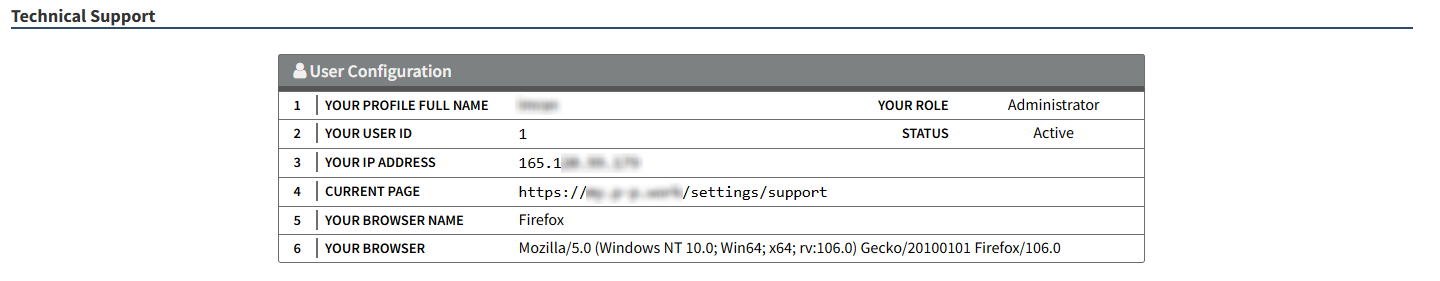
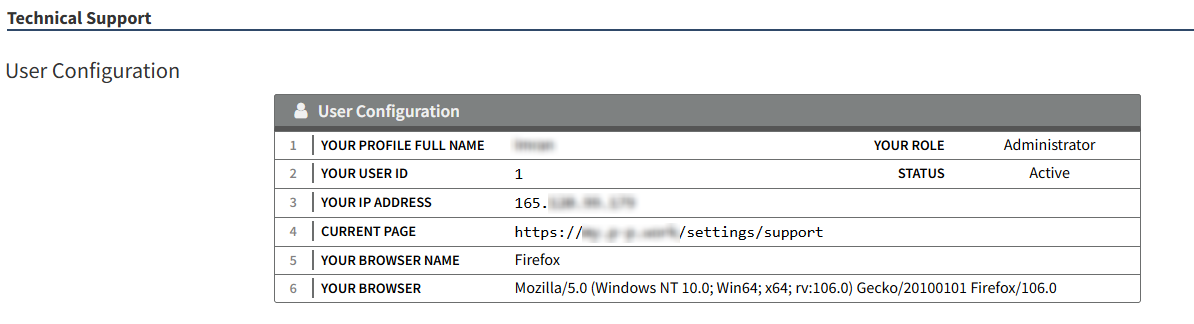
NEW: Add Application Information Section

Changed region(s): [[0.1859, 0.1708, 0.9606, 0.9395], [0.0, 0.0285, 1.0, 0.1139], [0.0, 0.1993, 0.1549, 0.2562]]

diff --git a/Assets/css/kanboard-support.css b/Assets/css/kanboard-support.css
@@ -18,6 +18,7 @@
     --tech-bg-text-color-xwhite: #F0F0F0;
     --tech-bg-grey-border-match: #6C6E6E;
     --tech-bg-grey-border-bottom: #555555;
+    --tech-light-grey: #07060680;
 }
 
 .display-none, .d-none {
@@ -53,6 +54,10 @@
     width: 50px;
 }
 
+i.pp-white {
+    color: var(--pp-white);
+}
+
 table > thead > tr > th, table > tbody > tr > td, table > tbody > tr > th {
     padding: 4px 15px;
 }
@@ -75,7 +80,6 @@ table > thead > tr > th, table > tbody > tr > td, table > tbody > tr > th {
 
 #UserTable > thead > tr > th {
     border: 1px solid var(--tech-bg-grey-border-match);
-    border-bottom: 5px inset var(--tech-bg-grey-border-bottom);
 }
 
 #UserTable > tbody > tr > td {
@@ -92,7 +96,7 @@ table > thead > tr > th, table > tbody > tr > td, table > tbody > tr > th {
     border-bottom: 1px solid var(--tech-bg-grey-border-match);
 }
 
-.cell-title {
+.cell-title, .app-info-title {
     text-transform: uppercase;
     font-size: .9em;
     font-weight: 600;
@@ -144,16 +148,16 @@ table > thead > tr > th, table > tbody > tr > td, table > tbody > tr > th {
     font-weight: 600;
 }
 
-/* TABLE ROW NUMBERS */
-table.support-table {
+/* TABLE ROW NUMBERS - USER TABLE */
+table.support-table.user-table {
     counter-reset: rowNumber;
 }
 
-table.support-table tr > td:first-child {
+table.support-table.user-table tr > td:first-child {
     counter-increment: rowNumber;
 }
 
-table.support-table tr td:first-child::before {
+table.support-table.user-table tr td:first-child::before {
     content: counter(rowNumber);
     min-width: 1em;
     margin-right: 0.5em;
@@ -161,5 +165,27 @@ table.support-table tr td:first-child::before {
     padding-right: 15px;
     padding-top: 1px;
     padding-bottom: 1px;
+    color: var(--tech-light-grey);
 }
 /* END OF TABLE ROW NUMBERS */
+
+.app-info {}
+
+.empty-col {
+    width: 100px;
+}
+
+.app-info ul li {
+    margin: .2em .4em;
+    list-style-type: none;
+    display: inline-block;
+}
+
+.app-info-value {
+    padding: 0 5px;
+}
+
+.border-bottom-thick {
+    border-bottom: 5px inset var(--tech-bg-grey-border-bottom) !important;
+}
+

diff --git a/Template/config/support.php b/Template/config/support.php
@@ -8,13 +8,13 @@
 
 <!-- USER CONFIGURATION -->
     <section class="support-section">
-        
+        <h2><?= t('User Configuration') ?></h2>
         <div class="table-responsive">
-            <table id="UserTable" class="support-table table-center">
+            <table id="UserTable" class="support-table user-table table-center">
                 <thead class="">
                     <tr class="support-table-row">
-                        <th class="support-table-title" colspan="4" scope="col">
-                            <i class="fa fa-user"></i> <?= t('User Configuration') ?>
+                        <th class="support-table-title border-bottom-thick" colspan="4" scope="col">
+                            <i class="fa fa-user i-fw"></i> <?= t('User Configuration') ?>
                         </th>
                     </tr>
                 </thead>
@@ -52,6 +52,28 @@
         </div>
     </section>
 
+<!-- APPLICATION INFORMATION -->
+    <section class="support-section">
+        <h2 class=""><?= t('Application Information') ?></h2>
+        <div class="app-info">
+            <ul class="">
+                <li class="app-info-title"><?= t('Application Name') ?></li>
+                <li class="app-info-value border-bottom-thick"><?= t('Kanboard') ?></li>
+                <li class="empty-col"></li>
+                <li class="app-info-title"><?= t('Version') ?></li>
+                <li class="app-info-value border-bottom-thick"><?= APP_VERSION ?></li>
+                <li class="empty-col"></li>
+                <li class="app-info-title"><?= t('Updates') ?></li>
+                <?php if ($this->user->isAdmin()): ?>
+                <li class="app-info-value border-bottom-thick">
+                    <a href="https://github.com/kanboard/kanboard/releases" target="_blank" rel="noopener noreferrer" title="<?= t('Opens in a new window') ?>">
+                        <i class="fa fa-external-link"></i> <?= t('Check for updates') ?>
+                    </a>
+                </li>
+            <?php endif ?>
+            </ul>
+        </div>
+    </section>
 
 <?php if (DB_DRIVER === 'sqlite'): ?>
     <div class="page-header">

diff --git a/Locale/en_GB/translations.php b/Locale/en_GB/translations.php
@@ -13,12 +13,12 @@ return array(
   'Current Page' => 'Current Page',
   'Your Browser Name' => 'Your Browser Name',
   'Your Browser' => 'Your Browser',
-  '' => '',
-  '' => '',
-  '' => '',
-  '' => '',
-  '' => '',
-  '' => '',
+  'Application Name' => 'Application Name',
+  'Kanboard' => 'My PP Workspace',
+  'Version' => 'Version',
+  'Updates' => 'Updates',
+  'Check for updates' => 'Check for updates',
+  'Opens in a new window' => 'Opens in a new window',
   '' => '',
   '' => '',
   '' => '',

diff --git a/README.md b/README.md
@@ -8,11 +8,11 @@ Add a support section in the Kanboard Settings interface so that end users can e
 Features
 -------------
 
-- User Configuration table
-- Application Configuration table
-- Database Configuration table
-- Server Configuration table
-- Server Software Configuration table
+- User Configuration
+ - Displays basic settings about the logged in user which may be useful to support professionals
+- Application Information
+ - Displays Kanboard name, version and (if admin user) direct link to GitHub releases for Kanboard
+
 
 
 Screenshots
@@ -21,6 +21,10 @@ Screenshots
 **User Configuration**  
 
 ![User Configuration](../master/screenshot-user.png "User Configuration")
+
+**Application Information**
+
+![Application Information](../master/screenshot-app.png "Application Information")
 
 Usage
 -------------
